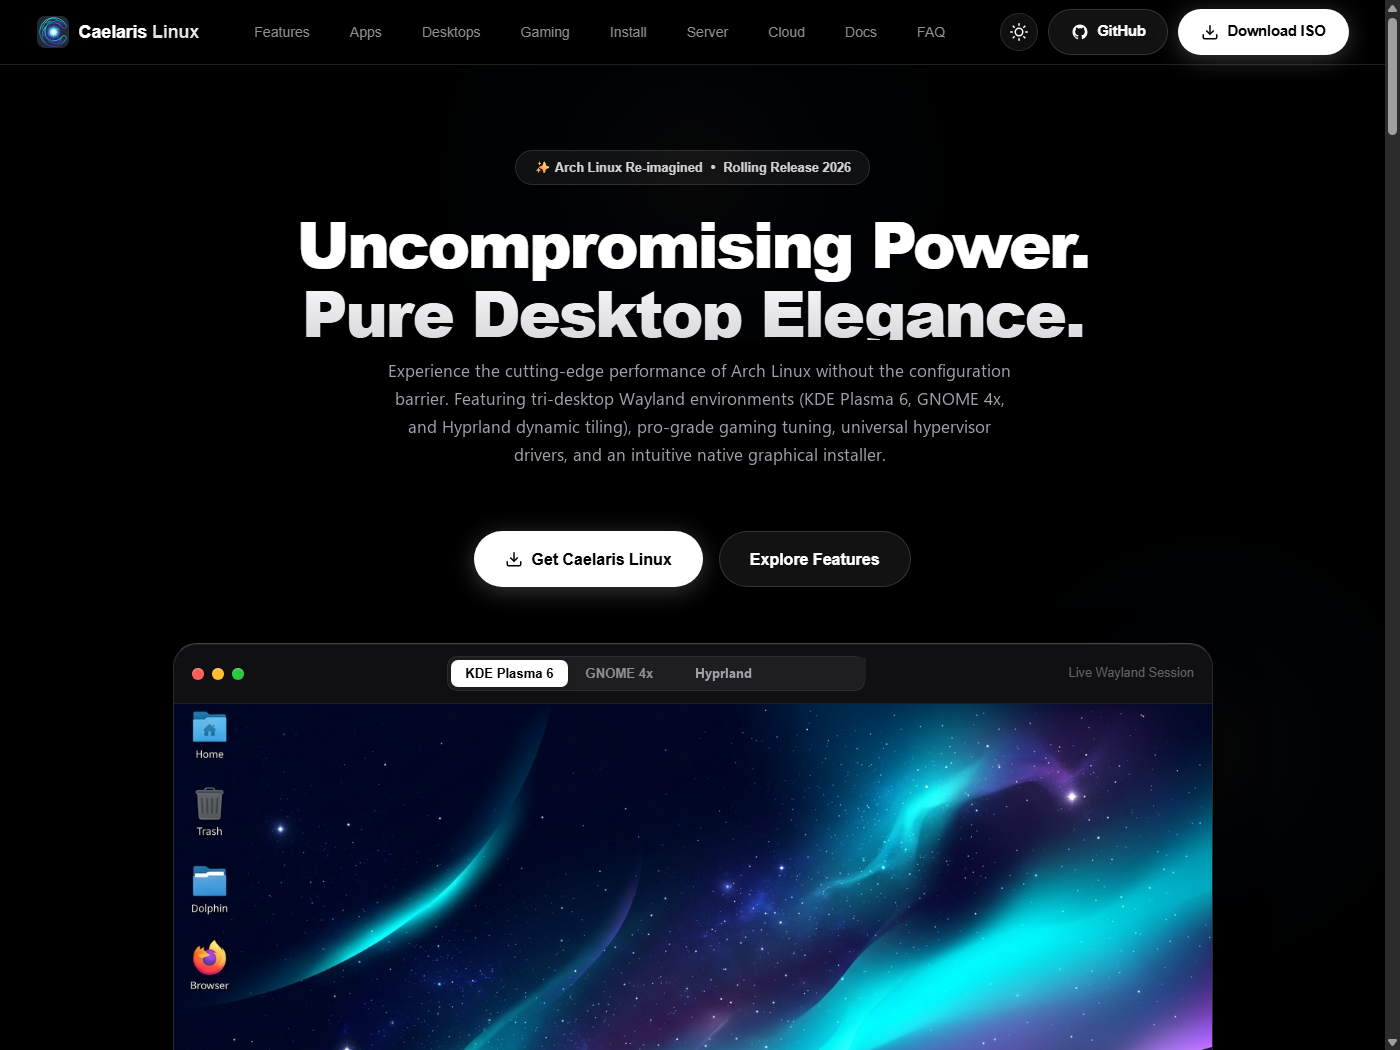
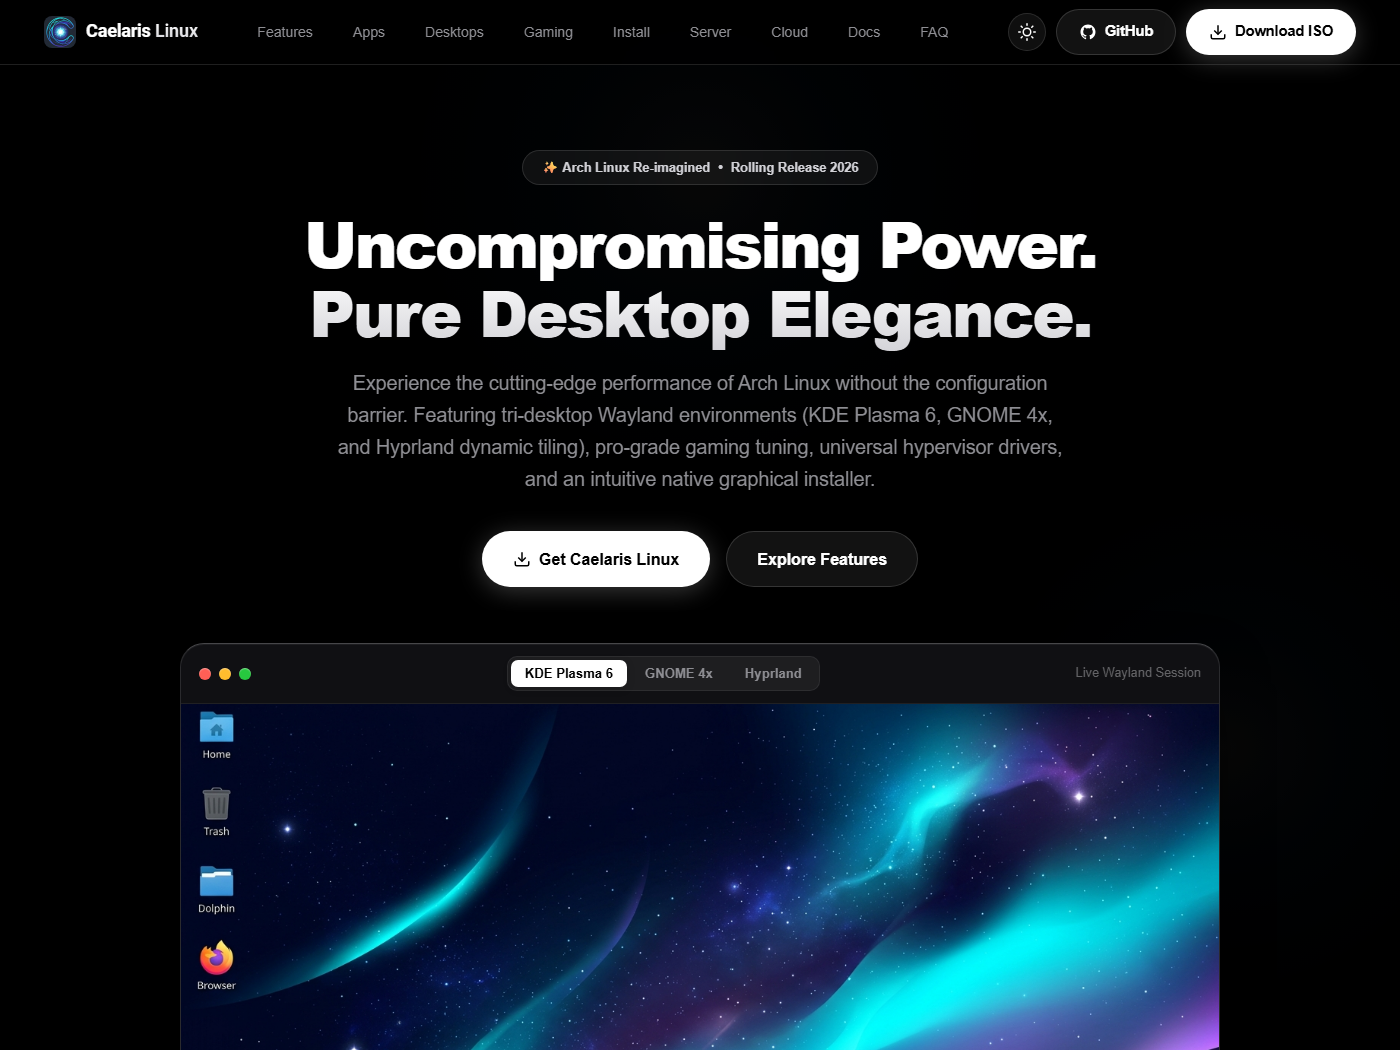
docs: update site screenshot preview in README with cachebuster and pure Hyprland

diff --git a/README.md b/README.md
@@ -24,7 +24,7 @@
 **Caelaris Linux** is a modern, rolling-release operating system built upon the rock-solid foundation of Arch Linux. Engineered for enthusiasts, gamers, creators, and developers, Caelaris delivers out-of-the-box hardware acceleration, low-latency responsiveness, and a unified tri-desktop experience (KDE Plasma 6, GNOME 4x, and Hyprland dynamic tiling) across modern x86_64 PCs and ARM64 devices.
 
 <p align="center">
-  <img src="assets/preview.png" alt="Caelaris Linux Desktop Preview" width="100%">
+  <img src="assets/preview.png?v=3" alt="Caelaris Linux Desktop Preview" width="100%">
 </p>
 
 ---
